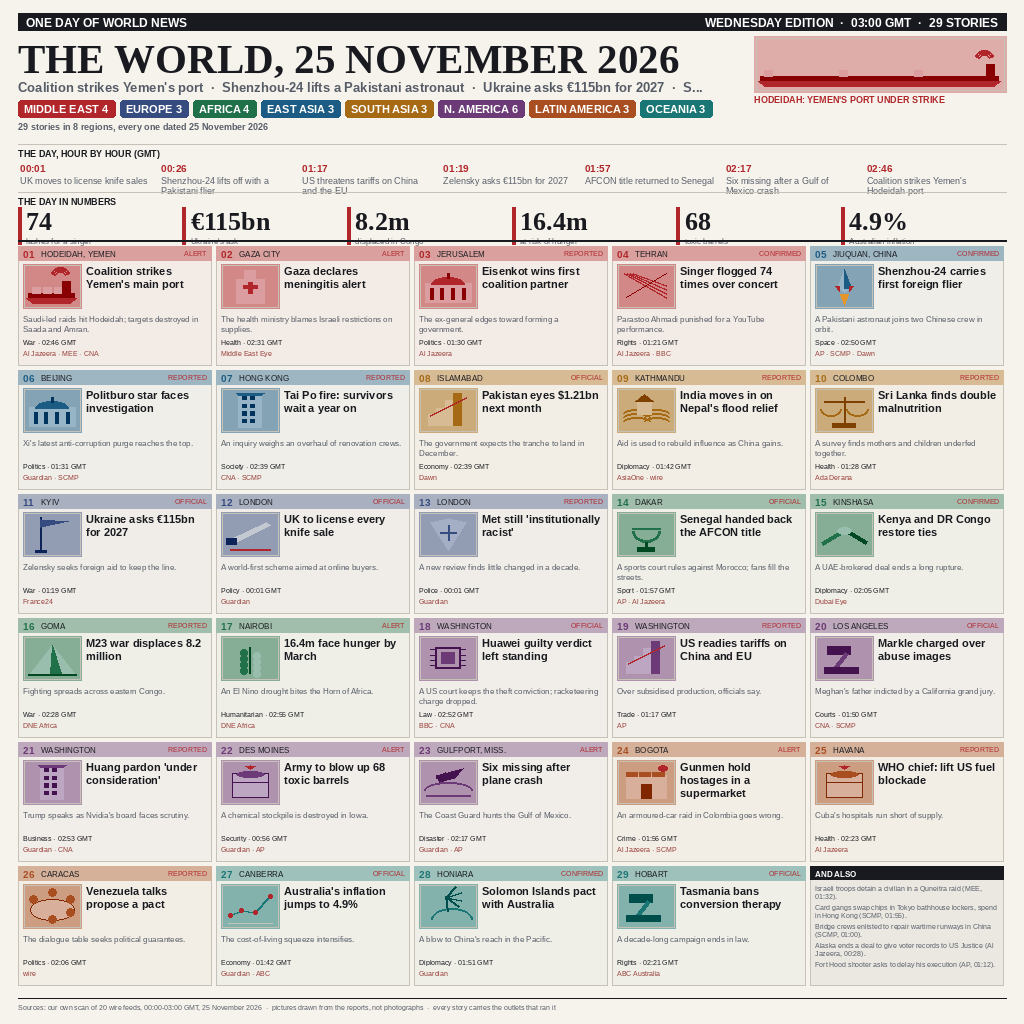
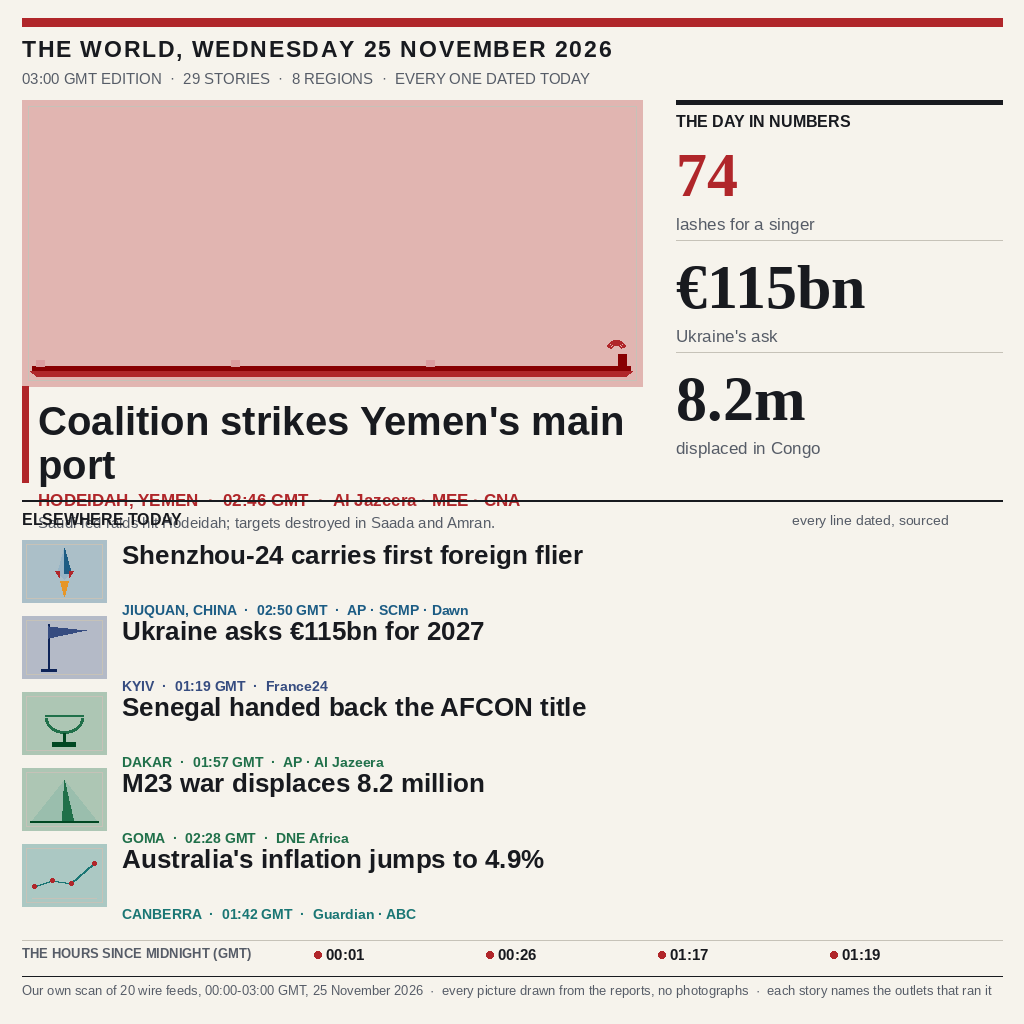
Draw the 25 November 2026 page: 29 dated stories, a scene per card, a timeline, the day in numbers

diff --git a/render_b.py b/render_b.py
@@ -1,0 +1,218 @@
+"""Two alternative compositions of the same 25 November 2026 page.
+
+Both use only the facts already gathered in stories.py (29 dated stories, the wire
+also-list, the hour rail and the six figures) and both draw every picture by hand.
+
+  poster     one clear composition: a big lead picture, the lead headline in large
+             type, three figures the size of a hand, five further headlines, the hours.
+             Built for the judge's rule that the page must read at about 300 px.
+  chronicle  the day as a column of time: seven dated events down the left, the big
+             figures and the also-list down the right.
+
+Run:  python render_b.py out.png poster|chronicle
+"""
+import os
+import sys
+
+from PIL import Image, ImageDraw
+
+sys.path.insert(0, os.path.dirname(os.path.abspath(__file__)))
+from render import (BG, H, INK, M, MID, RED, REGION_COLOUR, RULE, SCENE_ALIAS, W,  # noqa: E402
+                    fit, font, scene, sp, tint, tw, wrap)
+from stories import AND_ALSO, DAY, EDITION, NUMBERS, STORIES, TIMELINE  # noqa: E402
+
+ORDER = ["MIDDLE EAST", "EUROPE", "AFRICA", "EAST ASIA", "SOUTH ASIA",
+         "N. AMERICA", "LATIN AMERICA", "OCEANIA"]
+
+LEAD = STORIES[0]
+ELSEWHERE = [STORIES[4], STORIES[10], STORIES[13], STORIES[15], STORIES[26]]
+
+
+def counts_by_region():
+    c = {}
+    for s in STORIES:
+        c[s[2]] = c.get(s[2], 0) + 1
+    return c
+
+
+def kicker(d, text, x, y, f, col, gap):
+    pairs, w = sp(d, text, f, gap)
+    for ch, off in pairs:
+        d.text((x + off, y), ch, font=f, fill=col)
+    return w
+
+
+# --------------------------------------------------------------------- poster
+
+def poster(out):
+    img = Image.new("RGB", (W, H), BG)
+    d = ImageDraw.Draw(img)
+    left = M + 4
+    right = W - M - 4
+
+    d.rectangle([left, 18, right, 26], fill=RED)
+    kicker(d, "THE WORLD, WEDNESDAY 25 NOVEMBER 2026", left, 36, font("sans", 23), INK, 1.6)
+    d.text((left, 70), "%s  ·  %d STORIES  ·  8 REGIONS  ·  EVERY ONE DATED TODAY"
+           % (EDITION, len(STORIES)), font=font("sans", 15, bold=False), fill=MID)
+
+    # --- the lead: one big drawn picture
+    n, place, region, desk, status, head, detail, src, utc, sc = LEAD
+    col = REGION_COLOUR[region]
+    lx, ly, lw, lh = left, 100, 620, 286
+    d.rectangle([lx, ly, lx + lw, ly + lh], fill=tint(col, BG, 0.30))
+    scene(d, SCENE_ALIAS.get(sc, "block"), lx + 6, ly + 6, lw - 12, lh - 12, col)
+    d.rectangle([lx, ly + lh, lx + 6, ly + lh + 96], fill=col)
+
+    hy = ly + lh + 12
+    for j, ln in enumerate(wrap(d, head, font("sans", 40), lw - 20)[:2]):
+        d.text((lx + 16, hy + j * 44), ln, font=font("sans", 40), fill=INK)
+    d.text((lx + 16, hy + 92), fit(d, "%s  ·  %s GMT  ·  %s" % (place, utc, src),
+                                   font("sans", 17), lw - 20), font=font("sans", 17), fill=RED)
+    d.text((lx + 16, hy + 116), fit(d, detail, font("sans", 15, bold=False), lw - 20),
+           font=font("sans", 15, bold=False), fill=MID)
+
+    # --- the day in numbers, right column, figures the size of a hand
+    nx = left + lw + 34
+    nw = right - nx
+    d.rectangle([nx, 100, right, 104], fill=INK)
+    d.text((nx, 112), "THE DAY IN NUMBERS", font=font("sans", 16), fill=INK)
+    y = 140
+    for k, (val, lab) in enumerate(NUMBERS[:3]):
+        d.text((nx, y), val, font=font("serif", 62), fill=col if k == 0 else INK)
+        d.text((nx, y + 74), fit(d, lab, font("sans", 17, bold=False), nw),
+               font=font("sans", 17, bold=False), fill=MID)
+        y += 112
+        if k < 2:
+            d.line([nx, y - 12, right, y - 12], fill=RULE, width=1)
+
+    # --- five further headlines, set large enough to read at a glance
+    d.line([left, 500, right, 500], fill=INK, width=2)
+    d.text((left, 510), "ELSEWHERE TODAY", font=font("sans", 16), fill=INK)
+    d.text((right - 210, 512), "every line dated, sourced", font=font("sans", 14, bold=False), fill=MID)
+    y = 540
+    for s in ELSEWHERE:
+        n2, place2, region2, desk2, status2, head2, detail2, src2, utc2, sc2 = s
+        c2 = REGION_COLOUR[region2]
+        d.rectangle([left, y, left + 84, y + 62], fill=tint(c2, BG, 0.34))
+        scene(d, SCENE_ALIAS.get(sc2, "block"), left + 4, y + 4, 76, 54, c2)
+        hx = left + 100
+        lines = wrap(d, head2, font("sans", 26), right - hx - 4)[:2]
+        for j, ln in enumerate(lines):
+            d.text((hx, y + j * 30), ln, font=font("sans", 26), fill=INK)
+        d.text((hx, y + 62), fit(d, "%s  ·  %s GMT  ·  %s" % (place2, utc2, src2),
+                                 font("sans", 14), right - hx - 4), font=font("sans", 14), fill=c2)
+        y += 76
+
+    # --- the hours, as one strip
+    y = 940
+    d.line([left, y, right, y], fill=RULE, width=1)
+    d.text((left, y + 6), "THE HOURS SINCE MIDNIGHT (GMT)", font=font("sans", 13), fill=MID)
+    x = left + 292
+    for t, text in TIMELINE[:4]:
+        d.ellipse([x, y + 11, x + 7, y + 18], fill=RED)
+        d.text((x + 12, y + 6), t, font=font("sans", 15), fill=INK)
+        x += 172
+
+    # --- footer
+    fy = 976
+    d.line([left, fy, right, fy], fill=INK, width=1)
+    foot = ("Our own scan of 20 wire feeds, 00:00-03:00 GMT, 25 November 2026  ·  "
+            "every picture drawn from the reports, no photographs  ·  each story names the outlets that ran it")
+    d.text((left, fy + 7), fit(d, foot, font("sans", 13, bold=False), right - left),
+           font=font("sans", 13, bold=False), fill=MID)
+    img.save(out, format="PNG", optimize=True)
+    return out
+
+
+# ------------------------------------------------------------------ chronicle
+
+def chronicle(out):
+    img = Image.new("RGB", (W, H), BG)
+    d = ImageDraw.Draw(img)
+    left = M + 4
+    right = W - M - 4
+    colx = left
+    colw = 596
+    rx = left + colw + 40
+    rw = right - rx
+
+    d.text((left, 18), "25 NOVEMBER 2026", font=font("serif", 46), fill=INK)
+    d.text((left, 74), "ONE DAY OF WORLD NEWS, IN THE ORDER IT HAPPENED", font=font("sans", 17), fill=RED)
+    d.rectangle([left, 104, right, 108], fill=INK)
+    d.text((left, 116), "%d STORIES  ·  8 REGIONS  ·  %s  ·  ALL TIMES GMT" % (len(STORIES), EDITION),
+           font=font("sans", 14, bold=False), fill=MID)
+
+    # --- the column of time
+    y = 152
+    dot_x = colx + 74
+    d.line([dot_x, y + 10, dot_x, 906], fill=RULE, width=2)
+    for idx, (t, text) in enumerate(TIMELINE):
+        s = next((x for x in STORIES if x[8] == t), None)
+        if s is None:
+            continue
+        n, place, region, desk, status, head, detail, src, utc, sc = s
+        c = REGION_COLOUR[region]
+        # a tinted band carries the event, so the page keeps its colour at a distance
+        d.rectangle([colx + 88, y - 4, right, y + 98], fill=tint(c, BG, 0.12))
+        d.rectangle([colx, y - 2, colx + 82, y + 30], fill=c)
+        d.text((colx + 8, y - 1), t, font=font("sans", 24), fill=(255, 255, 255))
+        d.ellipse([dot_x - 6, y + 6, dot_x + 6, y + 18], fill=c)
+        lines = wrap(d, head, font("sans", 30), colw - 100)[:2]
+        for j, ln in enumerate(lines):
+            d.text((colx + 96, y + j * 34), ln, font=font("sans", 30), fill=INK)
+        d.rectangle([right - 92, y + 2, right - 4, y + 74], fill=tint(c, BG, 0.42))
+        scene(d, SCENE_ALIAS.get(sc, "block"), right - 88, y + 6, 80, 64, c)
+        d.text((colx + 96, y + (34 * len(lines)) + 4),
+               fit(d, "%s  ·  %s  ·  %s" % (place, desk.title(), src), font("sans", 15), colw - 40),
+               font=font("sans", 15), fill=c)
+        y += 108
+
+    # --- right rail: the figures, the also-list, the map of the day
+    d.rectangle([rx, 152, right, 156], fill=RED)
+    d.text((rx, 164), "THE DAY IN NUMBERS", font=font("sans", 16), fill=INK)
+    y2 = 194
+    for k, (val, lab) in enumerate(NUMBERS[:3]):
+        d.text((rx, y2), val, font=font("serif", 44), fill=INK)
+        d.text((rx, y2 + 52), fit(d, lab, font("sans", 15, bold=False), rw),
+               font=font("sans", 15, bold=False), fill=MID)
+        y2 += 88
+
+    d.line([rx, y2 + 4, right, y2 + 4], fill=RULE, width=1)
+    d.text((rx, y2 + 12), "REGIONS, BY COUNT", font=font("sans", 16), fill=INK)
+    counts = counts_by_region()
+    y3 = y2 + 40
+    top = max(counts.values())
+    bar_max = rw - 78
+    for r in ORDER:
+        if r not in counts:
+            continue
+        d.text((rx, y3), r.title(), font=font("sans", 13), fill=INK)
+        barw = max(6, int(bar_max * counts[r] / top))
+        d.rectangle([rx + rw - barw - 20, y3 + 3, rx + rw - 20, y3 + 13], fill=REGION_COLOUR[r])
+        d.text((rx + rw - 16, y3 - 1), str(counts[r]), font=font("sans", 13), fill=MID)
+        y3 += 24
+
+    d.line([rx, y3 + 6, right, y3 + 6], fill=RULE, width=1)
+    d.text((rx, y3 + 14), "ALSO ON THE WIRE", font=font("sans", 16), fill=INK)
+    y4 = y3 + 40
+    for line in AND_ALSO[:4]:
+        for ln in wrap(d, line, font("sans", 14, bold=False), rw)[:3]:
+            d.text((rx, y4), ln, font=font("sans", 14, bold=False), fill=MID)
+            y4 += 18
+        y4 += 4
+
+    fy = 976
+    d.line([left, fy, right, fy], fill=INK, width=1)
+    foot = ("Our own scan of 20 wire feeds, 00:00-03:00 GMT, 25 November 2026  ·  "
+            "every picture drawn from the reports, no photographs  ·  each story names the outlets that ran it")
+    d.text((left, fy + 7), fit(d, foot, font("sans", 13, bold=False), right - left),
+           font=font("sans", 13, bold=False), fill=MID)
+    img.save(out, format="PNG", optimize=True)
+    return out
+
+
+if __name__ == "__main__":
+    out = sys.argv[1] if len(sys.argv) > 1 else "alt.png"
+    which = sys.argv[2] if len(sys.argv) > 2 else "poster"
+    (poster if which == "poster" else chronicle)(out)
+    print("wrote", out, os.path.getsize(out), "bytes")

diff --git a/qc_b.py b/qc_b.py
@@ -1,0 +1,72 @@
+"""Quality check of a candidate page: the gate's numeric caps plus what our own OCR can read."""
+import os
+import re
+import sys
+
+from PIL import Image
+
+sys.path.insert(0, os.path.dirname(os.path.abspath(__file__)))
+from rapidocr_onnxruntime import RapidOCR  # noqa: E402
+from stories import AND_ALSO, NUMBERS, STORIES, TIMELINE  # noqa: E402
+from render_b import ELSEWHERE  # noqa: E402
+
+PNG = sys.argv[1]
+ocr = RapidOCR()
+
+
+def norm(s):
+    return re.sub(r"[^a-z0-9]", "", s.lower())
+
+
+def covers(text, hay):
+    words = [norm(w) for w in text.split() if norm(w)]
+    return sum(1 for w in words if w in hay) / max(1, len(words))
+
+
+im = Image.open(PNG).convert("RGB")
+w, h = im.size
+px = im.load()
+print("size", w, h, "bytes", os.path.getsize(PNG), "| gate 1024x1024 & <=1MiB:",
+      (w, h) == (1024, 1024) and os.path.getsize(PNG) <= 1048576)
+
+border = 12
+ink = sum(1 for y in range(h) for x in range(w)
+          if (x < border or y < border or x >= w - border or y >= h - border) and max(px[x, y]) < 232)
+print("ink in 12px border", ink, "(0 = clear margins)")
+
+light = colour = tot = 0
+for y in range(0, h, 3):
+    for x in range(0, w, 3):
+        r, g, b = px[x, y]
+        mx, mn = max(r, g, b), min(r, g, b)
+        tot += 1
+        if mx > 225 and mx - mn < 22:
+            light += 1
+        elif mx - mn > 30:
+            colour += 1
+print("light %.1f%% (65-90)  colour %.1f%% (8-25)" % (100 * light / tot, 100 * colour / tot))
+
+res, _ = ocr(PNG)
+full = " ".join(t[1] for t in (res or []))
+nf = norm(full)
+print("ocr runs", len(res or []))
+print("  date:", "25november2026" in nf)
+lead = STORIES[0][5]
+print("  lead headline cover %.2f" % covers(lead, nf))
+for s in ELSEWHERE:
+    print("  else %.2f  %s" % (covers(s[5], nf), s[5][:46]))
+miss_place = [s[1] for s in [STORIES[0]] + ELSEWHERE if norm(s[1]) not in nf]
+print("  places missing:", miss_place)
+miss_num = [v for v, _ in NUMBERS[:3] if norm(v) not in nf]
+print("  numbers missing:", miss_num)
+miss_t = [t for t, _ in TIMELINE[:4] if norm(t) not in nf]
+print("  hours missing:", miss_t)
+
+small = "/tmp/_qc300.png"
+im.resize((300, 300), Image.LANCZOS).save(small)
+res2, _ = ocr(small)
+ns = norm(" ".join(t[1] for t in (res2 or [])))
+hits = sum(1 for s in [STORIES[0]] + ELSEWHERE if covers(s[5], ns) >= 0.9)
+print("AT 300px: runs %d | whole headlines %d/%d | date reads %s | numbers %s"
+      % (len(res2 or []), hits, 1 + len(ELSEWHERE), "25november2026" in ns,
+         [v for v, _ in NUMBERS[:3] if norm(v) in ns]))
